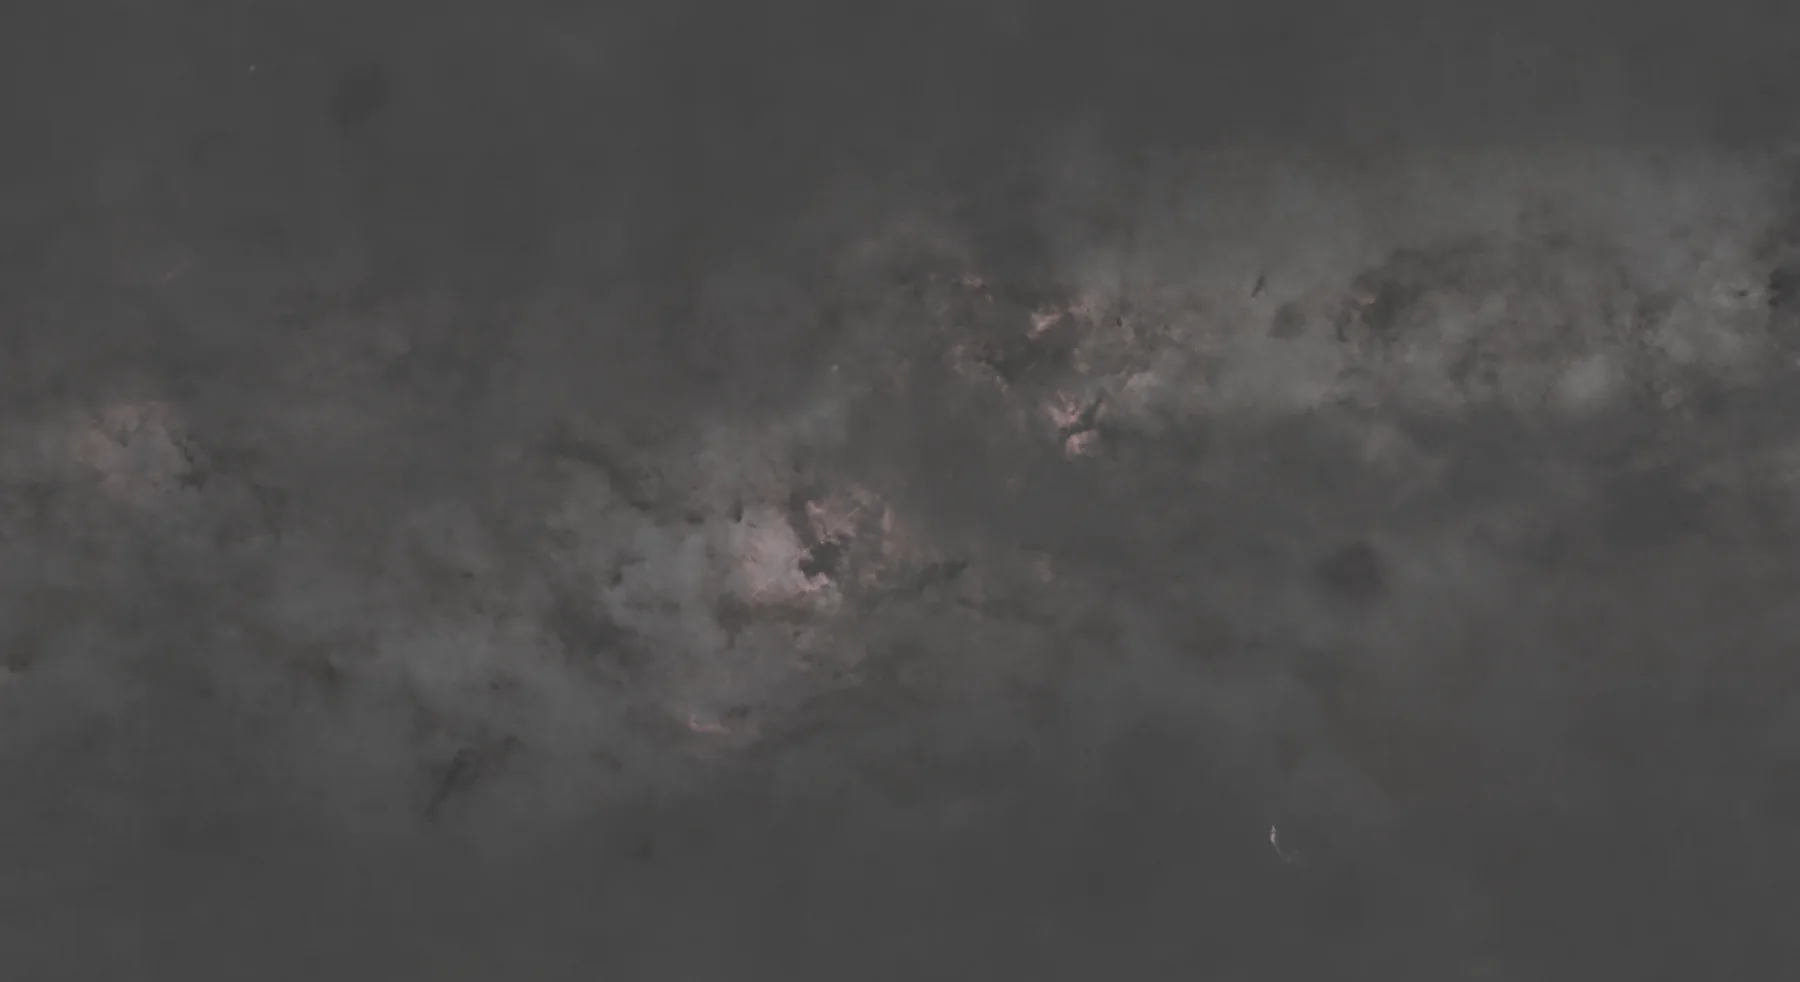
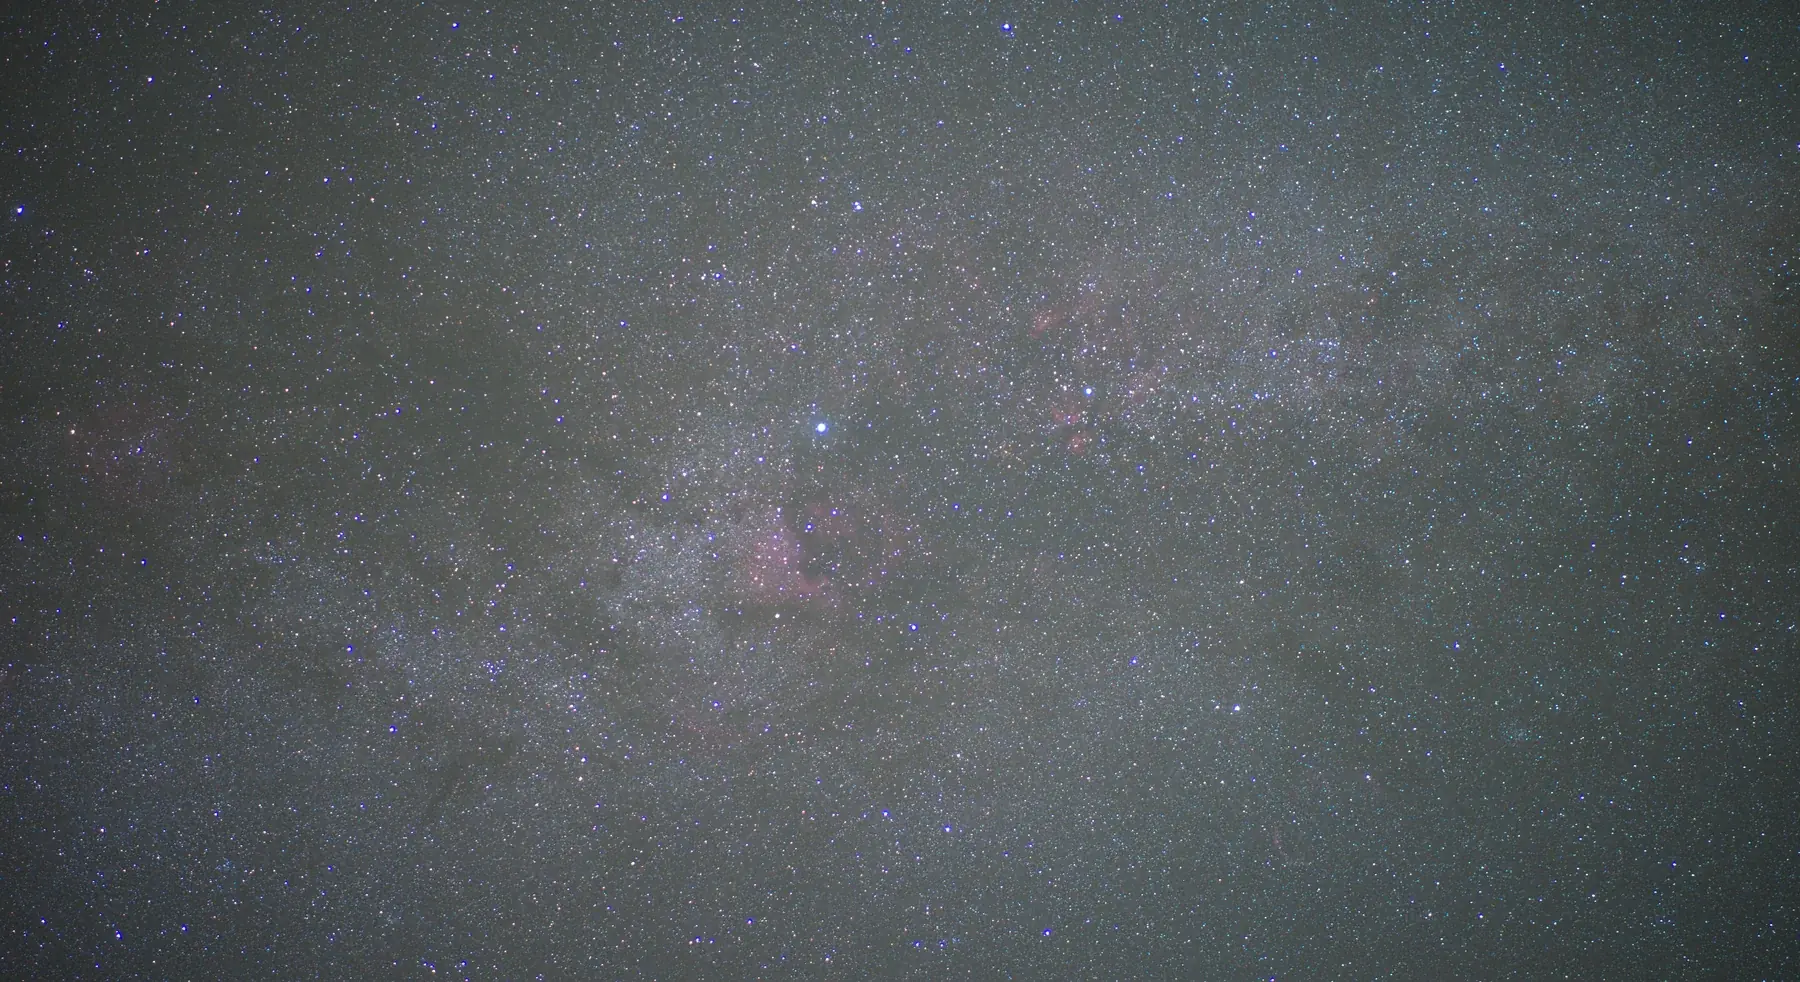
Portada con más cielo y RAW real en la demo del Cisne
- Portada: arco de la Vía Láctea en escritorio y Vía Láctea vertical en móvil
- Demo Landscape: una toma RAW real, sin procesar y alineada con la imagen final

diff --git a/index.html b/index.html
@@ -14,6 +14,7 @@
 @font-face{font-family:'Hanken Grotesk';font-style:normal;font-weight:300 700;font-display:swap;src:url('Assets/fonts/HankenGrotesk.woff2') format('woff2')}
 @font-face{font-family:'Newsreader';font-style:italic;font-weight:200 800;font-display:swap;src:url('Assets/fonts/Newsreader-italic.woff2') format('woff2')}
 @font-face{font-family:'Newsreader';font-style:normal;font-weight:200 800;font-display:swap;src:url('Assets/fonts/Newsreader.woff2') format('woff2')}
+
 :root{
   --ink:#0c0a09; --ink-2:#14110f; --ink-3:#1e1a17; --line:#2e2824;
   --paper:#efe9dd; --muted:#a59c8e; --dim:#7b7267;
@@ -56,8 +57,8 @@ h2 em{font-style:italic;font-weight:300}
 /* Portada */
 .hero{position:relative;padding-top:64px;isolation:isolate}
 .hero-photo{position:absolute;inset:0 0 34% 0;z-index:-1;overflow:hidden}
-.hero-photo img{width:128%;max-width:none;height:100%;object-fit:cover;object-position:50% 40%;animation:settle 1.8s cubic-bezier(.2,.7,.2,1) both;transform-origin:30% 50%}
-.hero-photo::after{content:"";position:absolute;inset:0;background:linear-gradient(180deg,rgba(var(--ink-rgb),.34) 0%,rgba(var(--ink-rgb),.04) 40%,rgba(var(--ink-rgb),.25) 70%,var(--ink) 100%),linear-gradient(90deg,rgba(var(--ink-rgb),.8) 0%,rgba(var(--ink-rgb),.5) 34%,rgba(var(--ink-rgb),0) 58%)}
+.hero-photo img{width:118%;max-width:none;height:100%;object-fit:cover;object-position:50% 0%;animation:settle 1.8s cubic-bezier(.2,.7,.2,1) both;transform-origin:30% 50%}
+.hero-photo::after{content:"";position:absolute;inset:0;background:linear-gradient(180deg,rgba(var(--ink-rgb),.3) 0%,rgba(var(--ink-rgb),0) 35%,rgba(var(--ink-rgb),.1) 70%,var(--ink) 100%),linear-gradient(90deg,rgba(var(--ink-rgb),.72) 0%,rgba(var(--ink-rgb),.35) 32%,rgba(var(--ink-rgb),0) 52%)}
 .hero-top{padding-top:clamp(3.2rem,8vw,6.8rem);padding-bottom:clamp(2.4rem,5vw,3.6rem)}
 .hero h1{font-size:clamp(3rem,8.3vw,7.6rem);line-height:.96;max-width:12.5ch;margin:1rem 0 1.5rem}
 .hero h1 em{font-weight:300}
@@ -249,6 +250,7 @@ footer{border-top:1px solid var(--line);padding:3rem 0 2rem;font-size:.92rem;col
 .soon p:not(.label){color:var(--muted);margin-bottom:1.4rem}
 .hero-photo img{position:absolute;top:-10%;left:0;height:112%}
 @media (max-width:720px){
+  .hero-photo img{width:100%;object-position:50% 12%}
   #demo[data-mode="landscape"]{aspect-ratio:1217/664}
   #demo[data-mode="landscape"] .shot-inner{width:162.69%;margin-left:-59.74%;margin-top:-38.45%}
   #demo[data-mode="deepspace"]{aspect-ratio:696/664}
@@ -294,7 +296,7 @@ footer{border-top:1px solid var(--line);padding:3rem 0 2rem;font-size:.92rem;col
 
 <main id="top">
 <div class="hero">
-    <div class="hero-photo"><img src="Assets/photos/hero-lavanda.webp" alt="" fetchpriority="high" oncontextmenu="return false;"></div>
+    <div class="hero-photo"><picture><source media="(max-width:720px)" srcset="Assets/photos/hero-vertical.webp"><img src="Assets/photos/hero-arco.webp" alt="" fetchpriority="high" oncontextmenu="return false;"></picture></div>
     <div class="wrap">
         <div class="hero-top">
             <p class="label fade"><b>Nightscape Processor 2.1</b> · Windows · Mac <span data-en="coming soon" data-es="próximamente">próximamente</span></p>
@@ -312,11 +314,11 @@ footer{border-top:1px solid var(--line);padding:3rem 0 2rem;font-size:.92rem;col
                 <button type="button" class="mode-hot hot-l" data-mode-btn="landscape" aria-label="Ver modo Landscape"></button>
                 <button type="button" class="mode-hot hot-d" data-mode-btn="deepspace" aria-label="Ver modo Deep Space"></button>
                 <div class="ba" id="ba" role="slider" tabindex="0" aria-label="Comparar antes y después" aria-valuemin="0" aria-valuemax="100" aria-valuenow="50">
-                    <img class="m-l" src="Assets/app/cisne-antes.webp" alt="Región del Cisne, imagen original con el contraste reducido" draggable="false" oncontextmenu="return false;">
+                    <img class="m-l" src="Assets/app/cisne-antes.webp" alt="Región del Cisne, una toma RAW sin procesar" draggable="false" oncontextmenu="return false;">
                     <img class="ba-after m-l" src="Assets/app/cisne-despues.webp" alt="Región del Cisne, procesada con Nightscape Processor" draggable="false" oncontextmenu="return false;">
                     <img class="m-d" src="Assets/app/laguna-antes.webp" alt="Nebulosa de la Laguna, apilado original" draggable="false" oncontextmenu="return false;">
                     <img class="ba-after m-d" src="Assets/app/laguna-despues.webp" alt="Nebulosa de la Laguna, procesada con Nightscape Processor" draggable="false" oncontextmenu="return false;">
-                    <span class="ba-tag ba-tag-l m-l" data-en="Before" data-es="Antes">Antes</span>
+                    <span class="ba-tag ba-tag-l m-l">RAW</span>
                     <span class="ba-tag ba-tag-l m-d" data-en="Stacked" data-es="Apilado">Apilado</span>
                     <span class="ba-tag ba-tag-r" data-en="With Nightscape" data-es="Con Nightscape">Con Nightscape</span>
                     <div class="ba-line"><span class="ba-grip" aria-hidden="true">‹ ›</span></div>
@@ -329,7 +331,7 @@ footer{border-top:1px solid var(--line);padding:3rem 0 2rem;font-size:.92rem;col
                 <button type="button" data-mode-btn="deepspace" aria-pressed="false">Deep Space</button>
             </div>
             <b data-en="Drag to compare" data-es="Arrastra para comparar">Arrastra para comparar</b>
-            <span class="m-l" data-en="Cygnus region at 50 mm. Before: the original image with reduced contrast, to recreate the look of an unprocessed stack. After: processed with Nightscape Processor." data-es="Región del Cisne a 50 mm. Antes: la imagen original con el contraste reducido, para recrear el aspecto de un apilado sin procesar. Después: procesada con Nightscape Processor.">Región del Cisne a 50 mm. Antes: la imagen original con el contraste reducido, para recrear el aspecto de un apilado sin procesar. Después: procesada con Nightscape Processor.</span>
+            <span class="m-l" data-en="Cygnus region at 50 mm. RAW: a single unprocessed exposure from the session. After: the final image processed with Nightscape Processor." data-es="Región del Cisne a 50 mm. RAW: una sola toma de la sesión, sin procesar. Después: la imagen final procesada con Nightscape Processor.">Región del Cisne a 50 mm. RAW: una sola toma de la sesión, sin procesar. Después: la imagen final procesada con Nightscape Processor.</span>
             <span class="m-d" data-en="Lagoon Nebula. Stacked: the original stack with the preview auto-stretch. After: processed with Nightscape Processor." data-es="Nebulosa de la Laguna. Apilado: el apilado original con el auto-estirado de la vista previa. Después: procesada con Nightscape Processor.">Nebulosa de la Laguna. Apilado: el apilado original con el auto-estirado de la vista previa. Después: procesada con Nightscape Processor.</span>
         </div>
     </div>
